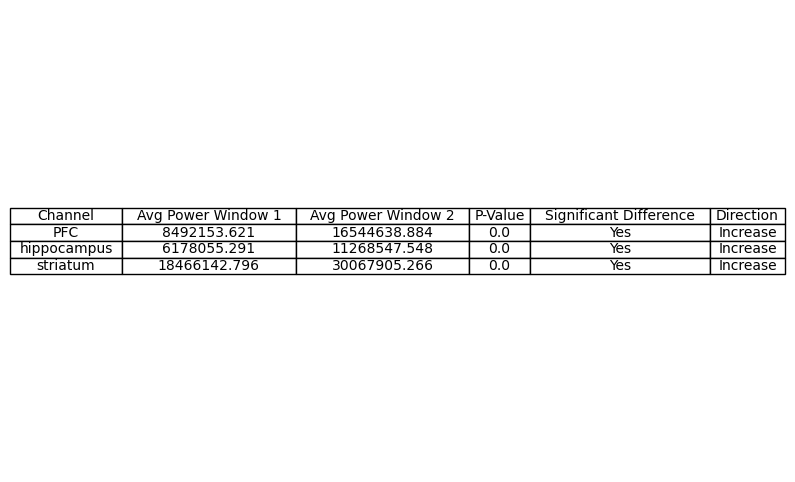
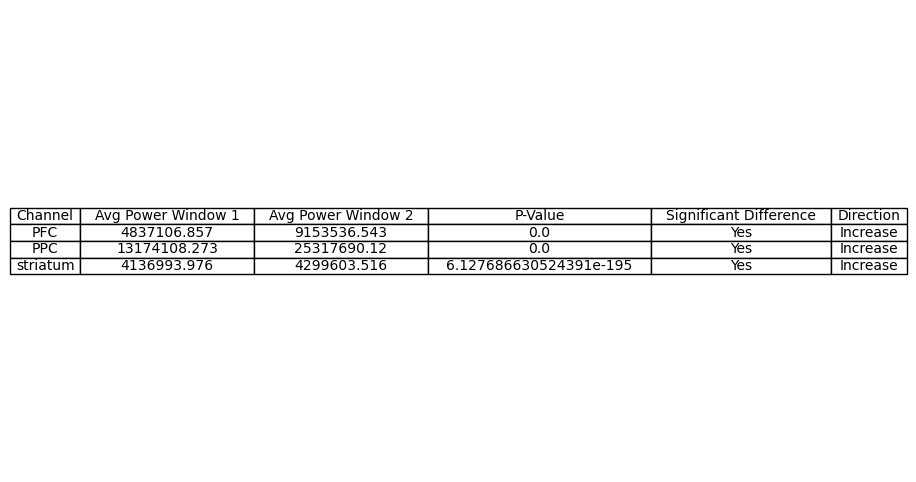
Updated code with new windowing methods

Changed region(s): [[0.0, 0.4357, 0.9962, 0.5602]]

diff --git a/tests/DMN_fixed.py b/tests/DMN_fixed.py
@@ -1,0 +1,203 @@
+"""import os
+import pandas as pd
+import numpy as np
+import matplotlib.pyplot as plt
+from scipy.signal import welch, butter, filtfilt
+import seaborn as sns
+import scipy.signal as signal
+from scipy import stats"""
+import os
+import pandas as pd
+import matplotlib.pyplot as plt
+import numpy as np
+import scipy.signal as signal
+from scipy.signal import welch, butter, filtfilt
+from scipy import stats
+from scipy.fft import fft, ifft
+from scipy.signal import spectrogram
+import sys
+sys.path.append('/Users/maxtenenbaum/Desktop/space_radiation/space_rad')
+from src import preprocessing, analysis, visualization
+
+#%% Functions
+
+def load_and_process(file_path, lo, hi, fs=1024):
+    # Load data
+    headers = ['time', 'PFC1', 'PFC2', 'PPC1', 'PPC2', 'striatum1',
+               'striatum2', 'ground1', 'ground2', 'ground3', 'ground4',
+               'x_accel', 'y_accel', 'z_accel']
+    df = pd.read_csv(file_path, skiprows=4, names=headers, on_bad_lines='skip')
+    # Ground correction
+    channels = [ 'PFC1', 'PFC2', 'PPC1', 'PPC2', 'striatum1', 'striatum2', 'ground1', 'ground2', 'ground3', 'ground4']
+    mean_ground = ((df['ground1'] + df['ground2'] + df['ground3'] + df['ground4'])/4)
+    for chan in channels:
+        df[chan] = df[chan] - mean_ground
+    # Bandpass
+    N = 8
+    sos = signal.butter(N, (lo, hi), 'bp', fs=fs, output='sos')
+    time_vector = np.arange(start=0, stop=(len(df)))
+    for chan in channels:
+        df[chan] = signal.sosfiltfilt(sos, df[chan])
+   
+    return df
+
+def plot_data(data, title):
+    output_dir = "output/plots/"
+    os.makedirs(output_dir, exist_ok=True)
+    channels = ['PFC1', 'PFC2','PPC1', 'PPC2', 'striatum1', 'striatum2']
+    time_vector = np.arange(start=0, stop= (len(data)))
+    fig, ax = plt.subplots(nrows=len(channels), ncols=1, figsize=(24,24), sharex=True)
+    for chan in channels:
+        i = channels.index(chan)
+        ax[i].plot(time_vector/1024, data[chan])
+        ax[i].set_title(chan, fontsize=24)
+        #ax[i].set_ylim(-25,25)
+    plt.suptitle(f'{title}', fontsize=48,y=0.93)
+    plt.savefig(os.path.join(output_dir, f"{title}.png"))  # Ensure the filename is valid
+    plt.close()
+
+def power_spectral_density(data, fs=1024, title='Data'):
+    output_dir = "output/plots/"
+    os.makedirs(output_dir, exist_ok=True)  # Ensure output directory exists
+    recording_channels = ['PFC1', 'PFC2','PPC1', 'PPC2', 'striatum1', 'striatum2']
+    plt.figure(figsize=(24, 24))  # Create a figure
+    colors = ['b', 'g', 'r', 'c', 'm', 'y', 'k']  # Add more colors if needed
+    for i, chan in enumerate(recording_channels):
+        f, S = signal.periodogram(data[chan], fs, scaling='density', nfft=1024)
+        plt.semilogy(f, S, label=chan, color=colors[i % len(colors)], linewidth=4)
+    plt.xlabel('Frequency [Hz]', fontsize=36)
+    plt.ylabel('PSD [V**2/Hz]', fontsize=36)
+    plt.xlim(1, 40)
+    plt.tick_params(axis='x', labelsize=24)
+    plt.tick_params(axis='y', labelsize=24)
+    plt.ylim(0.0001,None)
+    plt.grid(visible=True, which='major')
+    plt.title(title, fontsize=48)
+    plt.legend()  # Add a legend to distinguish channels
+    plt.savefig(os.path.join(output_dir, f"{title}.png"))  # Save the figure
+    plt.close()  # Close the figure
+
+def combine_channels(data):
+    data['PFC'] = (data['PFC1'] + data['PFC2'])/2
+    data['striatum'] = (data['striatum1'] + data['striatum2']/2)
+    data['PPC'] = (data['PPC1'] + data['PPC2']/2)
+    return data
+
+def plot_combined(data, title):
+    output_dir = "output/plots/"
+    os.makedirs(output_dir, exist_ok=True)
+    channels = ['PFC','PPC','striatum']
+    time_vector = np.arange(start=0, stop= (len(data)))
+    fig, ax = plt.subplots(nrows=len(channels), ncols=1, figsize=(48,24), sharex=True)
+    for chan in channels:
+        i = channels.index(chan)
+        ax[i].plot(time_vector/1024, data[chan])
+        ax[i].set_title(chan, fontsize=24)
+        #ax[i].set_ylim(-25,25)
+    plt.suptitle(f'{title}', fontsize=48,y=0.93)
+    plt.savefig(os.path.join(output_dir, f"{title}.png"))  # Ensure the filename is valid
+    plt.close()
+
+def create_windows(data, fs=1024, first=False, second=False):
+    duration = len(data)/fs
+    if duration % 2 == 0:
+        halfway_index = (duration * fs) / 2
+    else:
+        halfway_index = int(((duration * fs) / 2)-0.5)
+    if first == True:
+        window = data.iloc[0:halfway_index]
+    elif second == True:
+        window = data.iloc[halfway_index:]
+    return window
+
+def compare_power_between_windows_and_save_table_periodogram(data1, data2, fs=1024, freq_range=(1, 40), alpha=0.05, output_dir='output/tables/', title="Test"):
+    channels = ['PFC', 'PPC','striatum']
+    results_summary = []
+
+    for chan in channels:
+        f1, Pxx1 = signal.periodogram(data1[chan], fs)
+        f2, Pxx2 = signal.periodogram(data2[chan], fs)
+
+        idx1 = np.logical_and(f1 >= freq_range[0], f1 <= freq_range[1])
+        idx2 = np.logical_and(f2 >= freq_range[0], f2 <= freq_range[1])
+
+        # Perform the Wilcoxon signed-rank test
+        stat, p_value = stats.wilcoxon(Pxx1[idx1], Pxx2[idx2])
+
+        # Determine if the result is statistically significant
+        significant = "Yes" if p_value < alpha else "No"
+
+        # Determine direction
+        direction = "Decrease" if (np.mean(Pxx1[idx1])) > (np.mean(Pxx2[idx2])) else "Increase"
+
+        # Append results to the summary list
+        results_summary.append([chan, round(np.mean(Pxx1[idx1]),3), round(np.mean(Pxx2[idx2]),3), p_value, significant, direction])
+
+    # Create a table and save as PNG
+    fig, ax = plt.subplots(figsize=(10, 6))  # Adjust size as needed
+    ax.axis('tight')
+    ax.axis('off')
+    table_data = [["Channel", "Avg Power Window 1", "Avg Power Window 2", "P-Value", "Significant Difference", "Direction"]] + results_summary
+    table = ax.table(cellText=table_data, loc='center', cellLoc='center')
+
+    # Adjust table style as needed
+    table.auto_set_font_size(True)
+    #table.set_fontsize(10)
+    table.auto_set_column_width(col=list(range(len(table_data[0]))))
+
+    # Save the figure
+    plt.savefig(os.path.join(output_dir, f'{title}comparison_results_periodogram.png'), bbox_inches='tight', pad_inches=0.1)
+    plt.close()
+
+    return results_summary
+
+
+#%% Pipeline
+
+# Load and process
+rat83 = load_and_process('/Volumes/Elements/Space Radiation Project/Default Mode Network Study/Rat 83/Baseline Recording Data 20230928/09282023-124713_16g.csv', 0.5, 40)
+rat84 = load_and_process('/Volumes/Elements/Space Radiation Project/Default Mode Network Study/Rat 84/Baseline 20230928/09282023-145933_16g.csv', 0.5, 40)
+
+# Visualization
+rat83_plot = plot_data(rat83, 'DMN Data - Rat83')
+rat84_plot = plot_data(rat84, 'DMN Data - Rat84')
+
+rat83_psd = power_spectral_density(rat83, title='DMN Power Spectral Density - Rat83')
+rat84_psd = power_spectral_density(rat84, title='DMN Power Spectral Density -  Rat84')
+
+# Combine and plot 
+rat83_combined = combine_channels(rat83)
+rat84_combined = combine_channels(rat84)
+
+plot_83_combined = plot_combined(rat83_combined, 'Rat83 Combined Channels')
+plot_84_combined = plot_combined(rat84_combined, 'Rat84 Combined Channels')
+
+# Halving windows 
+rat83_first_half = create_windows(rat83_combined, first=True)
+rat83_second_half = create_windows(rat83_combined, second = True)
+rat84_first_half = create_windows(rat84_combined, first = True)
+rat84_second_half  = create_windows(rat84_combined, second = True)
+
+# Significance
+os.makedirs('output/tables/', exist_ok=True)  # Ensure output directory exists
+results_rat83 = compare_power_between_windows_and_save_table_periodogram(rat83_first_half, rat83_second_half, output_dir='output/tables/', title="Rat83 Halved")
+results_rat84 = compare_power_between_windows_and_save_table_periodogram(rat84_first_half, rat84_second_half, output_dir='output/tables/', title="Rat84 Halved")
+
+# Two minute windows
+three_minute = 3 * 60 * 1024  # Start of 3 minutes
+five_minute = 5 * 60 * 1024    # End of 5 minutes
+ten_minute = 10 * 60 * 1024
+twelve_minute = 12 * 60 * 1024
+seven_minute = 7 * 60 * 1024
+fourteen_minute = 14 * 60 * 1024
+nine_minute = 9 * 60 * 1024
+sixteen_minute = 16 * 60 * 1024
+
+## Creating  windows
+rat83_first_window = rat83_combined.iloc[seven_minute:nine_minute]
+rat84_first_window = rat84_combined.iloc[seven_minute:nine_minute]
+rat83_second_window = rat83_combined.iloc[fourteen_minute:sixteen_minute]
+rat84_second_window = rat84_combined.iloc[fourteen_minute:sixteen_minute]
+### Significance between windows
+results_rat83_windowed = compare_power_between_windows_and_save_table_periodogram(rat83_first_window, rat83_second_window, output_dir='output/tables', title="Rat83 7:9 and 14:16 Windows")
+results_rat84_windowed = compare_power_between_windows_and_save_table_periodogram(rat84_first_window, rat84_second_window, output_dir='output/tables', title="Rat84 7:9 and 14:16 Windows")

diff --git a/tests/DMN_v2.py b/tests/DMN_v2.py
@@ -136,10 +136,6 @@ def compare_power_between_windows_and_save_table_periodogram(data1, data2, fs=10
         # Determine direction
         direction = "Decrease" if (np.mean(Pxx1[idx1])) > (np.mean(Pxx2[idx2])) else "Increase"
 
-
-        
-
-
         # Append results to the summary list
         results_summary.append([chan, round(np.mean(Pxx1[idx1]),3), round(np.mean(Pxx2[idx2]),3), p_value, significant, direction])
 
